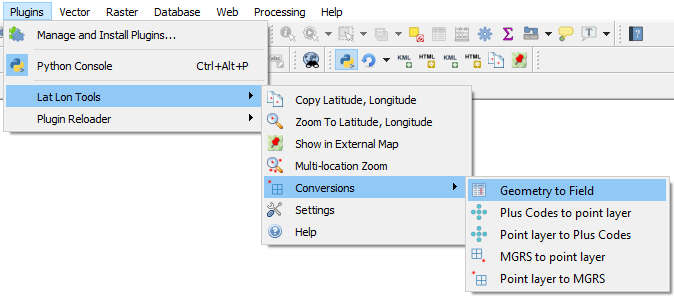
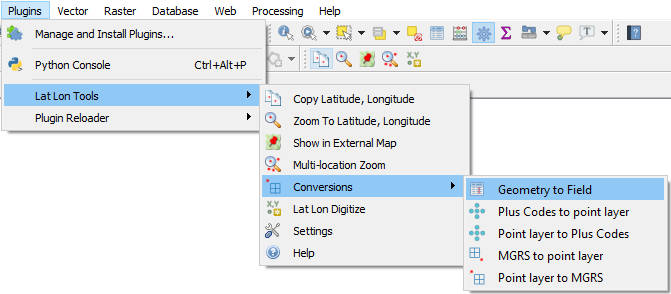
created personal toolbar

Changed region(s): [[0.0, 0.0, 1.0, 1.0], [0.7154, 0.3367, 1.0, 0.3673], [0.0, 0.4286, 0.0298, 0.4592]]

diff --git a/latLonTools.py b/latLonTools.py
@@ -27,6 +27,8 @@ class LatLonTools:
         self.crossRb = QgsRubberBand(self.canvas, QgsWkbTypes.LineGeometry)
         self.crossRb.setColor(Qt.red)
         self.provider = LatLonToolsProvider()        
+        self.toolbar = self.iface.addToolBar('Lat Lon Tools Toolbar')
+        self.toolbar.setObjectName('LatLonToolsToolbar')
 
     def initGui(self):
         '''Initialize Lot Lon Tools GUI.'''
@@ -41,7 +43,7 @@ class LatLonTools:
         self.copyAction.setObjectName('latLonToolsCopy')
         self.copyAction.triggered.connect(self.startCapture)
         self.copyAction.setCheckable(True)
-        self.iface.addToolBarIcon(self.copyAction)
+        self.toolbar.addAction(self.copyAction)
         self.iface.addPluginToMenu("Lat Lon Tools", self.copyAction)
 
         # Add Interface for Zoom to Coordinate
@@ -49,6 +51,7 @@ class LatLonTools:
         self.zoomToAction = QAction(icon, "Zoom To Latitude, Longitude", self.iface.mainWindow())
         self.zoomToAction.setObjectName('latLonToolsZoom')
         self.zoomToAction.triggered.connect(self.showZoomToDialog)
+        self.toolbar.addAction(self.zoomToAction)
         self.iface.addPluginToMenu('Lat Lon Tools', self.zoomToAction)
 
         self.zoomToDialog = ZoomToLatLon(self, self.iface, self.iface.mainWindow())
@@ -61,7 +64,7 @@ class LatLonTools:
         self.externMapAction.setObjectName('latLonToolsExternalMap')
         self.externMapAction.triggered.connect(self.setShowMapTool)
         self.externMapAction.setCheckable(True)
-        self.iface.addToolBarIcon(self.externMapAction)
+        self.toolbar.addAction(self.externMapAction)
         self.iface.addPluginToMenu("Lat Lon Tools", self.externMapAction)
         
         # Add Interface for Multi point zoom
@@ -69,6 +72,7 @@ class LatLonTools:
         self.multiZoomToAction = QAction(icon, "Multi-location Zoom", self.iface.mainWindow())
         self.multiZoomToAction.setObjectName('latLonToolsMultiZoom')
         self.multiZoomToAction.triggered.connect(self.multiZoomTo)
+        self.toolbar.addAction(self.multiZoomToAction)
         self.iface.addPluginToMenu('Lat Lon Tools', self.multiZoomToAction)
 
         self.multiZoomDialog = MultiZoomWidget(self, self.settingsDialog, self.iface.mainWindow())
@@ -95,6 +99,15 @@ class LatLonTools:
         self.toMGRSAction.setMenu(menu)
         self.iface.addPluginToMenu('Lat Lon Tools', self.toMGRSAction)
         
+        # Add to Digitize Toolbar
+        icon = QIcon(os.path.dirname(__file__) + '/images/latLonDigitize.png')
+        self.digitizeAction = QAction(icon, "Lat Lon Digitize", self.iface.mainWindow())
+        self.digitizeAction.setObjectName('latLonToolsDigitize')
+        self.digitizeAction.triggered.connect(self.digitizeClicked)
+        self.digitizeAction.setEnabled(False)
+        self.toolbar.addAction(self.digitizeAction)
+        self.iface.addPluginToMenu('Lat Lon Tools', self.digitizeAction)
+        
         # Initialize the Settings Dialog Box
         settingsicon = QIcon(os.path.dirname(__file__) + '/images/settings.png')
         self.settingsAction = QAction(settingsicon, "Settings", self.iface.mainWindow())
@@ -108,14 +121,6 @@ class LatLonTools:
         self.helpAction.setObjectName('latLonToolsHelp')
         self.helpAction.triggered.connect(self.help)
         self.iface.addPluginToMenu('Lat Lon Tools', self.helpAction)
-        
-        # Add to Digitize Toolbar
-        icon = QIcon(os.path.dirname(__file__) + '/images/latLonDigitize.png')
-        self.digitizeAction = QAction(icon, "Lat Lon Digitize", self.iface.mainWindow())
-        self.digitizeAction.setObjectName('latLonToolsDigitize')
-        self.digitizeAction.triggered.connect(self.digitizeClicked)
-        self.digitizeAction.setEnabled(False)
-        self.iface.digitizeToolBar().addAction(self.digitizeAction)
         
         
         self.iface.currentLayerChanged.connect(self.currentLayerChanged)
@@ -144,16 +149,23 @@ class LatLonTools:
         self.canvas.unsetMapTool(self.mapTool)
         self.canvas.unsetMapTool(self.showMapTool)
         self.iface.removePluginMenu('Lat Lon Tools', self.copyAction)
-        self.iface.removeToolBarIcon(self.copyAction)
         self.iface.removePluginMenu('Lat Lon Tools', self.externMapAction)
-        self.iface.removeToolBarIcon(self.externMapAction)
         self.iface.removePluginMenu('Lat Lon Tools', self.zoomToAction)
         self.iface.removePluginMenu('Lat Lon Tools', self.multiZoomToAction)
         self.iface.removePluginMenu('Lat Lon Tools', self.toMGRSAction)
         self.iface.removePluginMenu('Lat Lon Tools', self.settingsAction)
         self.iface.removePluginMenu('Lat Lon Tools', self.helpAction)
+        self.iface.removePluginMenu('Lat Lon Tools', self.digitizeAction)
         self.iface.removeDockWidget(self.zoomToDialog)
         self.iface.removeDockWidget(self.multiZoomDialog)
+        # Remove Toolbar Icons
+        self.iface.removeToolBarIcon(self.copyAction)
+        self.iface.removeToolBarIcon(self.zoomToAction)
+        self.iface.removeToolBarIcon(self.externMapAction)
+        self.iface.removeToolBarIcon(self.multiZoomToAction)
+        self.iface.removeToolBarIcon(self.digitizeAction)
+        del self.toolbar
+        
         self.geom2FieldDialog = None
         self.MGRStoLayerDialog = None
         self.toMGRSDialog = None
@@ -162,7 +174,6 @@ class LatLonTools:
         self.settingsDialog = None
         self.showMapTool = None
         self.mapTool = None
-        self.iface.digitizeToolBar().removeAction(self.digitizeAction)
         self.digitizerDialog = None
         QgsApplication.processingRegistry().removeProvider(self.provider)
 
